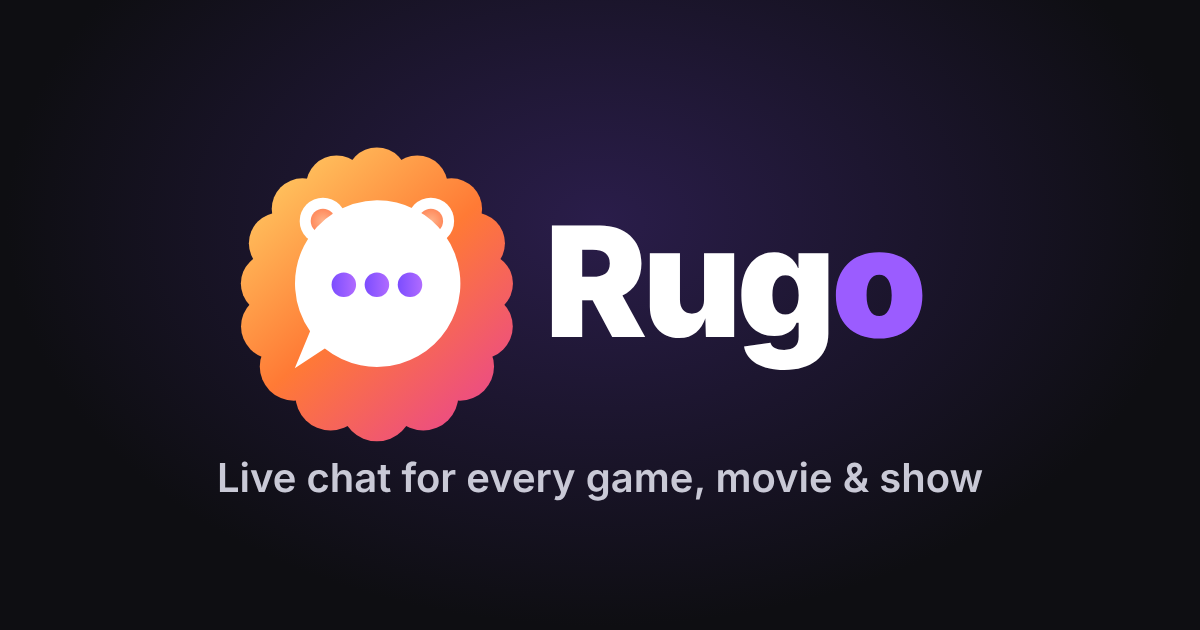
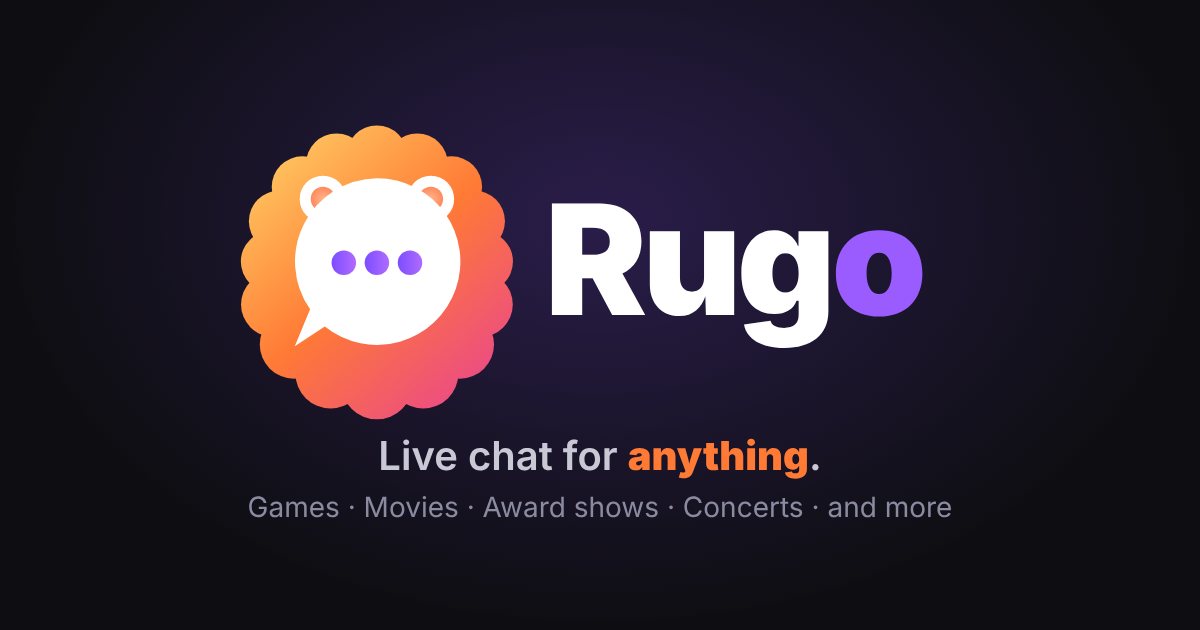
Brand message: Live chat for anything
- New tagline in page title, descriptions, app manifest and settings footer
- Home headline 'Live chat for …' with a rotating word (games, movies, award shows…)
- Share image and new logo versions with the tagline (white and black)
- Roadmap note: user-created chats

Claude-Session: https://claude.ai/code/session_01Dr9uPxeH1j2VW7HPpwuBKC

Changed region(s): [[0.185, 0.181, 0.8325, 0.8444], [0.4625, 0.3016, 0.7708, 0.6032], [0.185, 0.3921, 0.2158, 0.573]]

diff --git a/public/index.html b/public/index.html
@@ -3,8 +3,8 @@
 <head>
 <meta charset="utf-8">
 <meta name="viewport" content="width=device-width, initial-scale=1">
-<title>Rugo · Live chat for every event</title>
-<meta name="description" content="Chat live with fans around the world during every game, movie and show.">
+<title>Rugo · Live chat for anything</title>
+<meta name="description" content="Live chat for anything. Join the conversation during games, movies, award shows and more — live, with people around the world.">
 <link rel="icon" href="/brand/rugo-mark.svg" type="image/svg+xml">
 <link rel="icon" href="/brand/icon-192.png" type="image/png" sizes="192x192">
 <link rel="apple-touch-icon" href="/brand/apple-touch-icon.png">
@@ -12,8 +12,8 @@
 <meta name="theme-color" content="#0e0e12">
 <meta name="apple-mobile-web-app-title" content="Rugo">
 <meta property="og:type" content="website">
-<meta property="og:title" content="Rugo · Live chat for every event">
-<meta property="og:description" content="Chat live with fans around the world during every game, movie and show.">
+<meta property="og:title" content="Rugo · Live chat for anything">
+<meta property="og:description" content="Live chat for anything. Join the conversation during games, movies, award shows and more — live, with people around the world.">
 <meta property="og:url" content="https://rugo.chat/">
 <meta property="og:image" content="https://rugo.chat/brand/og-image.png">
 <meta property="og:image:width" content="1200">
@@ -187,6 +187,15 @@
   .mod-item .k { font-size:22px; }
   .lift { background:var(--panel2); border:1px solid var(--line); border-radius:999px; padding:7px 12px; cursor:pointer; font-weight:700; font-size:13px; }
   .lift:hover { border-color:#2ecc71; color:#2ecc71; }
+
+  /* Titular de la portada */
+  .hero-line { margin:2px 0 18px; }
+  .hero-line h1 { font-size:28px; line-height:1.15; margin:0; letter-spacing:-.02em; font-weight:900; }
+  @media (min-width:720px) { .hero-line h1 { font-size:38px; } }
+  .hero-line .rot { display:inline-block; background:linear-gradient(90deg, #ffd166, #ff7a35 45%, #e84393 75%, #9b5cff); -webkit-background-clip:text; background-clip:text; color:transparent; transition:opacity .25s, transform .25s; }
+  .hero-line .rot.out { opacity:0; transform:translateY(8px); }
+  .hero-line .dotp { color:var(--accent); }
+  .hero-line p { margin:6px 0 0; color:var(--muted); font-size:15px; }
 
   /* Portada compacta */
   .home .h-sec { margin-bottom:26px; }
@@ -628,6 +637,8 @@ const genreById = (id) => genres.find((g) => g.id === id);
 async function showHome() {
   header("home");
   app.innerHTML = `<main class="wide home">
+    <div class="hero-line"><h1>Live chat for <span class="rot" id="rot">anything</span><span class="dotp">.</span></h1>
+      <p>Jump into the conversation with people around the world — right now.</p></div>
     <section class="h-sec">
       <div class="h-head"><h2><span class="dot"></span> Live now</h2><div class="h-right"><small id="liveCount"></small>
         <button class="arrow" id="prev" aria-label="Previous">‹</button><button class="arrow" id="next" aria-label="Next">›</button></div></div>
@@ -695,6 +706,17 @@ async function showHome() {
         <span class="see">${favs.has(e.id) ? "★" : "›"}</span></a>`;
     }).join("");
   };
+
+  // Palabra que va cambiando en el titular
+  const words = ["games", "movies", "award shows", "concerts", "reality TV", "anything"];
+  let wi = words.length - 1;
+  const rot = document.getElementById("rot");
+  const rotTimer = setInterval(() => {
+    if (!document.getElementById("rot")) return clearInterval(rotTimer);
+    wi = (wi + 1) % words.length;
+    rot.classList.add("out");
+    setTimeout(() => { rot.textContent = words[wi]; rot.classList.remove("out"); }, 260);
+  }, 2200);
 
   await drawLive();
   drawRest();
@@ -885,7 +907,7 @@ async function showSettings() {
     <div class="set-sec"><h2>About</h2><div class="set-card">
       <a class="set-link" href="/privacy.html" target="_blank"><span>Privacy Policy</span><span>›</span></a>
       <a class="set-link" href="mailto:contacto@rugo.chat"><span>Contact us</span><span>›</span></a>
-    </div><p class="legal" style="text-align:center;margin-top:16px">Rugo 🦁 · Live chat for every event</p></div>
+    </div><p class="legal" style="text-align:center;margin-top:16px">Rugo 🦁 · Live chat for anything</p></div>
   </main>`;
 
   // Chat (se guarda en este aparato)

diff --git a/LEEME.md b/LEEME.md
@@ -1,4 +1,4 @@
-# Rugo (prototipo)
+# Rugo — Live chat for anything
 
 Chat en vivo para cada evento: partidos de todas las ligas del día (automático, vía ESPN) y eventos especiales (Oscars, Grammys, Miss Universo…).
 
@@ -25,3 +25,6 @@ Sin esas variables, Rugo funciona en modo invitado (apodo sin cuenta).
 ## Movies in theaters (TMDB)
 Add `TMDB_TOKEN` (API Read Access Token from themoviedb.org) in Render → Environment.
 Listings for United States and Puerto Rico refresh every 6 hours. `TMDB_MOCK=1` uses sample movies for local testing.
+
+## Próximamente (roadmap)
+- **Chats creados por usuarios:** que cualquiera pueda crear un live chat de lo que sea (un show, un concierto, un evento local, una watch party), con nombre, categoría, fecha y link para compartir.
